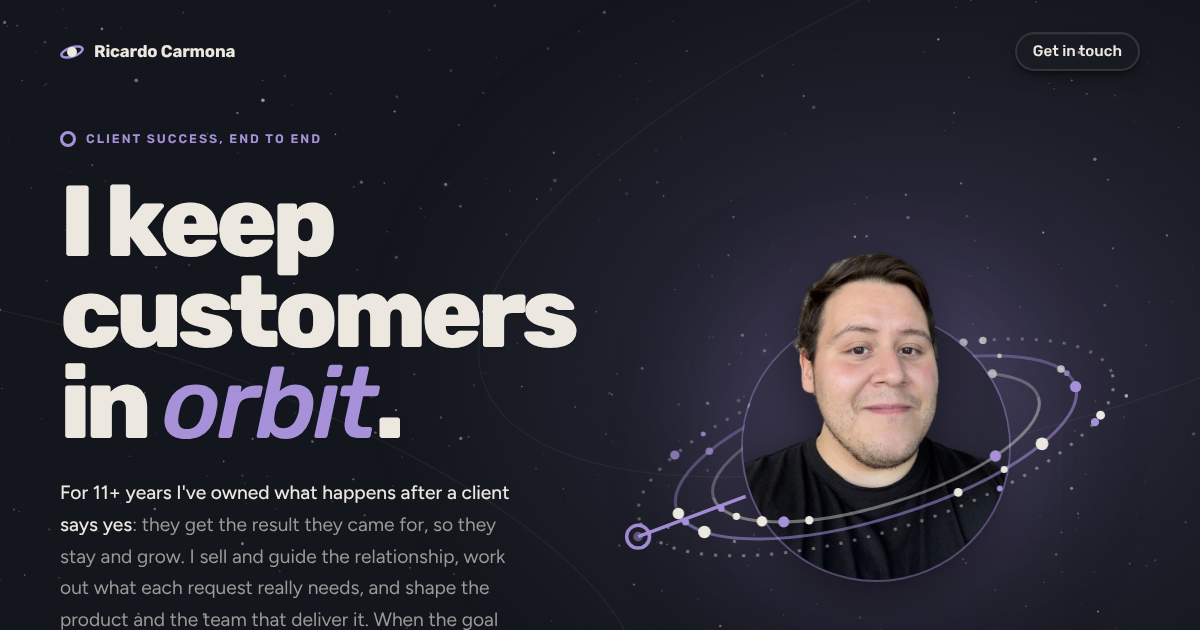
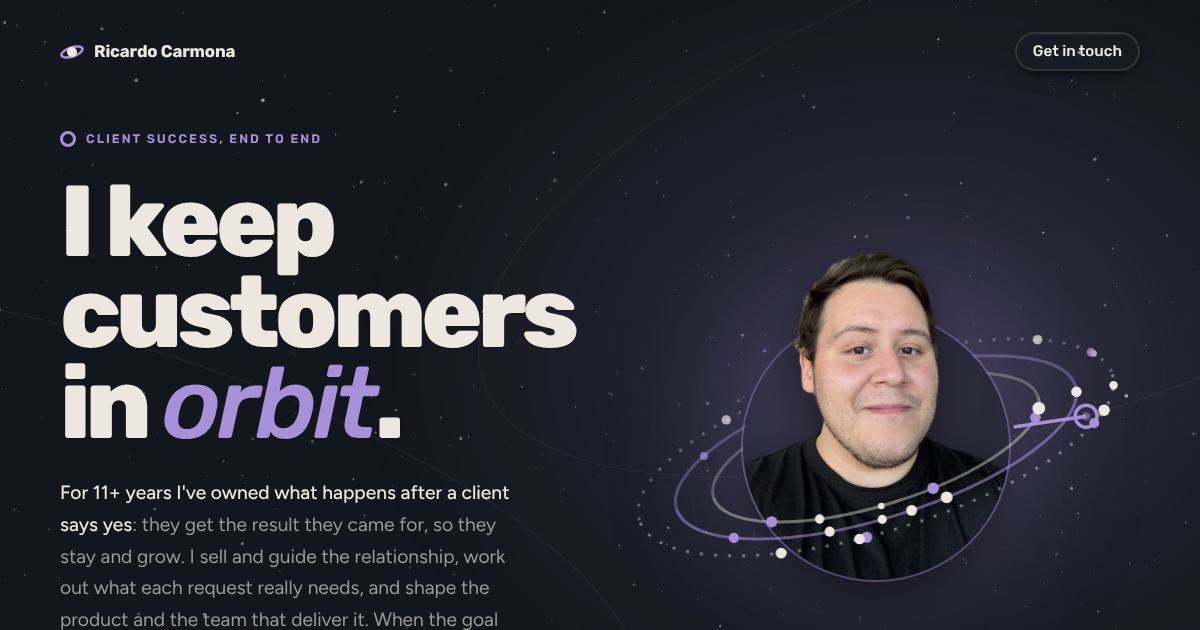
Fuller footer with Instagram link
Claude-Session: https://claude.ai/code/session_01Ppve7aA2MxnoLmhJDb7k4W

diff --git a/index.html b/index.html
@@ -468,9 +468,21 @@ footer{font:400 .8rem/1.5 var(--body);color:var(--bone-2);padding-bottom:32px}
     <div class="row">
       <button type="button" class="btn" id="copy">Copy email</button>
       <a href="https://linkedin.com/in/ricardocarmonarodarte" target="_blank" rel="noopener">LinkedIn</a>
+      <a href="https://instagram.com/idothegood" target="_blank" rel="noopener">Instagram</a>
     </div>
   </section>
-  <footer>© 2026 Ricardo Carmona · Guadalajara, Mexico</footer>
+  <footer class="foot">
+    <div class="fbrand">
+      <svg viewBox="0 0 24 24" aria-hidden="true"><ellipse cx="12" cy="12" rx="11" ry="4.5" fill="none" stroke="var(--accent)" stroke-width="2.6" transform="rotate(-18 12 12)"/><circle cx="12" cy="12" r="5" fill="var(--bone)"/></svg>
+      <div><b>Ricardo Carmona</b><span>Client success, end to end. Guadalajara, Mexico.</span></div>
+    </div>
+    <nav class="flinks" aria-label="Contact">
+      <a href="mailto:ricardo.carmonarodarte@gmail.com">Email</a>
+      <a href="https://linkedin.com/in/ricardocarmonarodarte" target="_blank" rel="noopener">LinkedIn</a>
+      <a href="https://instagram.com/idothegood" target="_blank" rel="noopener">Instagram</a>
+    </nav>
+    <small class="fcopy">© 2026 Ricardo Carmona. All rights reserved.</small>
+  </footer>
 </main>
 
 <script>
@@ -643,7 +655,15 @@ b.addEventListener('click',()=>{
   display:grid;place-items:center;opacity:0;visibility:hidden;transform:translateY(12px);transition:opacity .3s ease,transform .3s ease,visibility 0s linear .3s}
 #totop.show{opacity:1;visibility:visible;transform:none;transition:opacity .3s ease,transform .3s ease}
 #totop svg{width:30px;height:30px}
-footer{padding-right:72px}
+.foot{display:grid;grid-template-columns:minmax(0,1fr) auto;gap:20px 32px;align-items:center;border-top:2px solid var(--line);padding:32px 72px 32px 0;font-size:.9rem}
+.fbrand{display:flex;gap:12px;align-items:center}
+.fbrand svg{width:26px;height:26px;flex:none}
+.fbrand b{display:block;font:700 1rem/1.2 var(--display);color:var(--bone)}
+.fbrand span{color:var(--bone-2)}
+.flinks{display:flex;flex-wrap:wrap;gap:10px 22px}
+.flinks a{font:500 .95rem/1.4 var(--display);color:var(--bone)}
+.fcopy{grid-column:1/-1;color:var(--bone-2);font-size:.8rem}
+@media (max-width:600px){.foot{grid-template-columns:1fr;padding-right:0;padding-bottom:88px}}
 #totop:hover{background:color-mix(in srgb,var(--accent) 85%,var(--bone))}
 #totop:focus-visible{outline:2px solid var(--accent);outline-offset:3px}
 @media (prefers-reduced-motion:no-preference){#totop:hover svg ellipse{transform-origin:24px 24px;animation:turn 3s linear infinite}}
